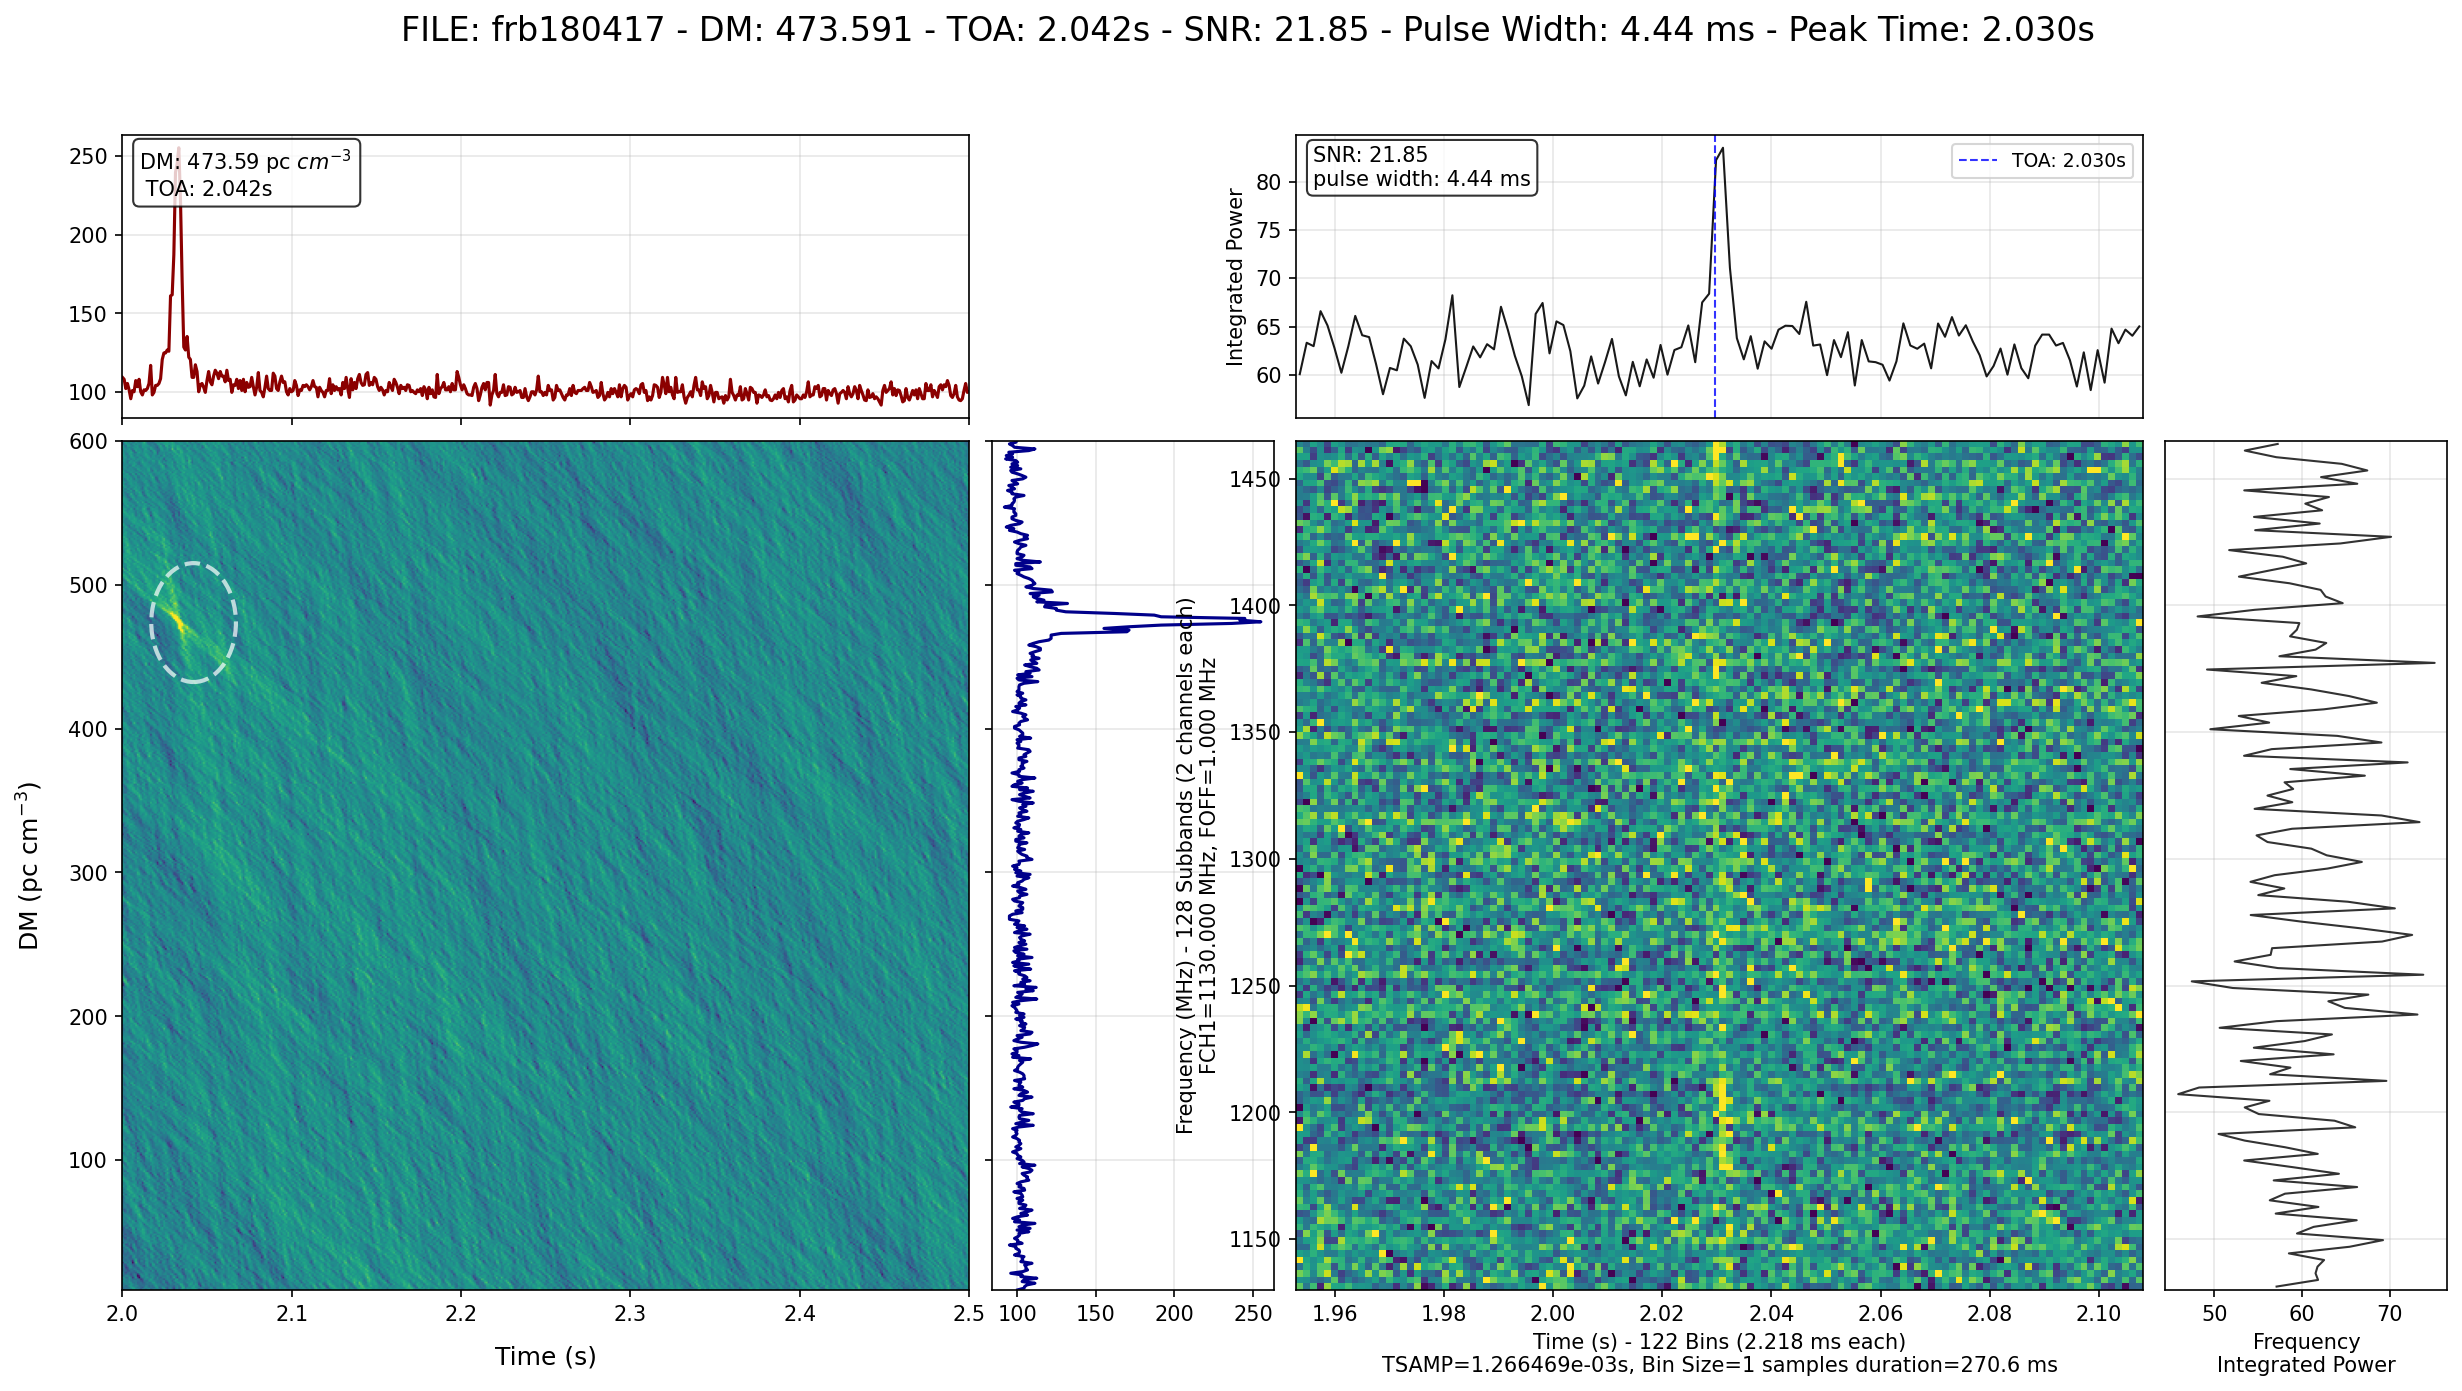
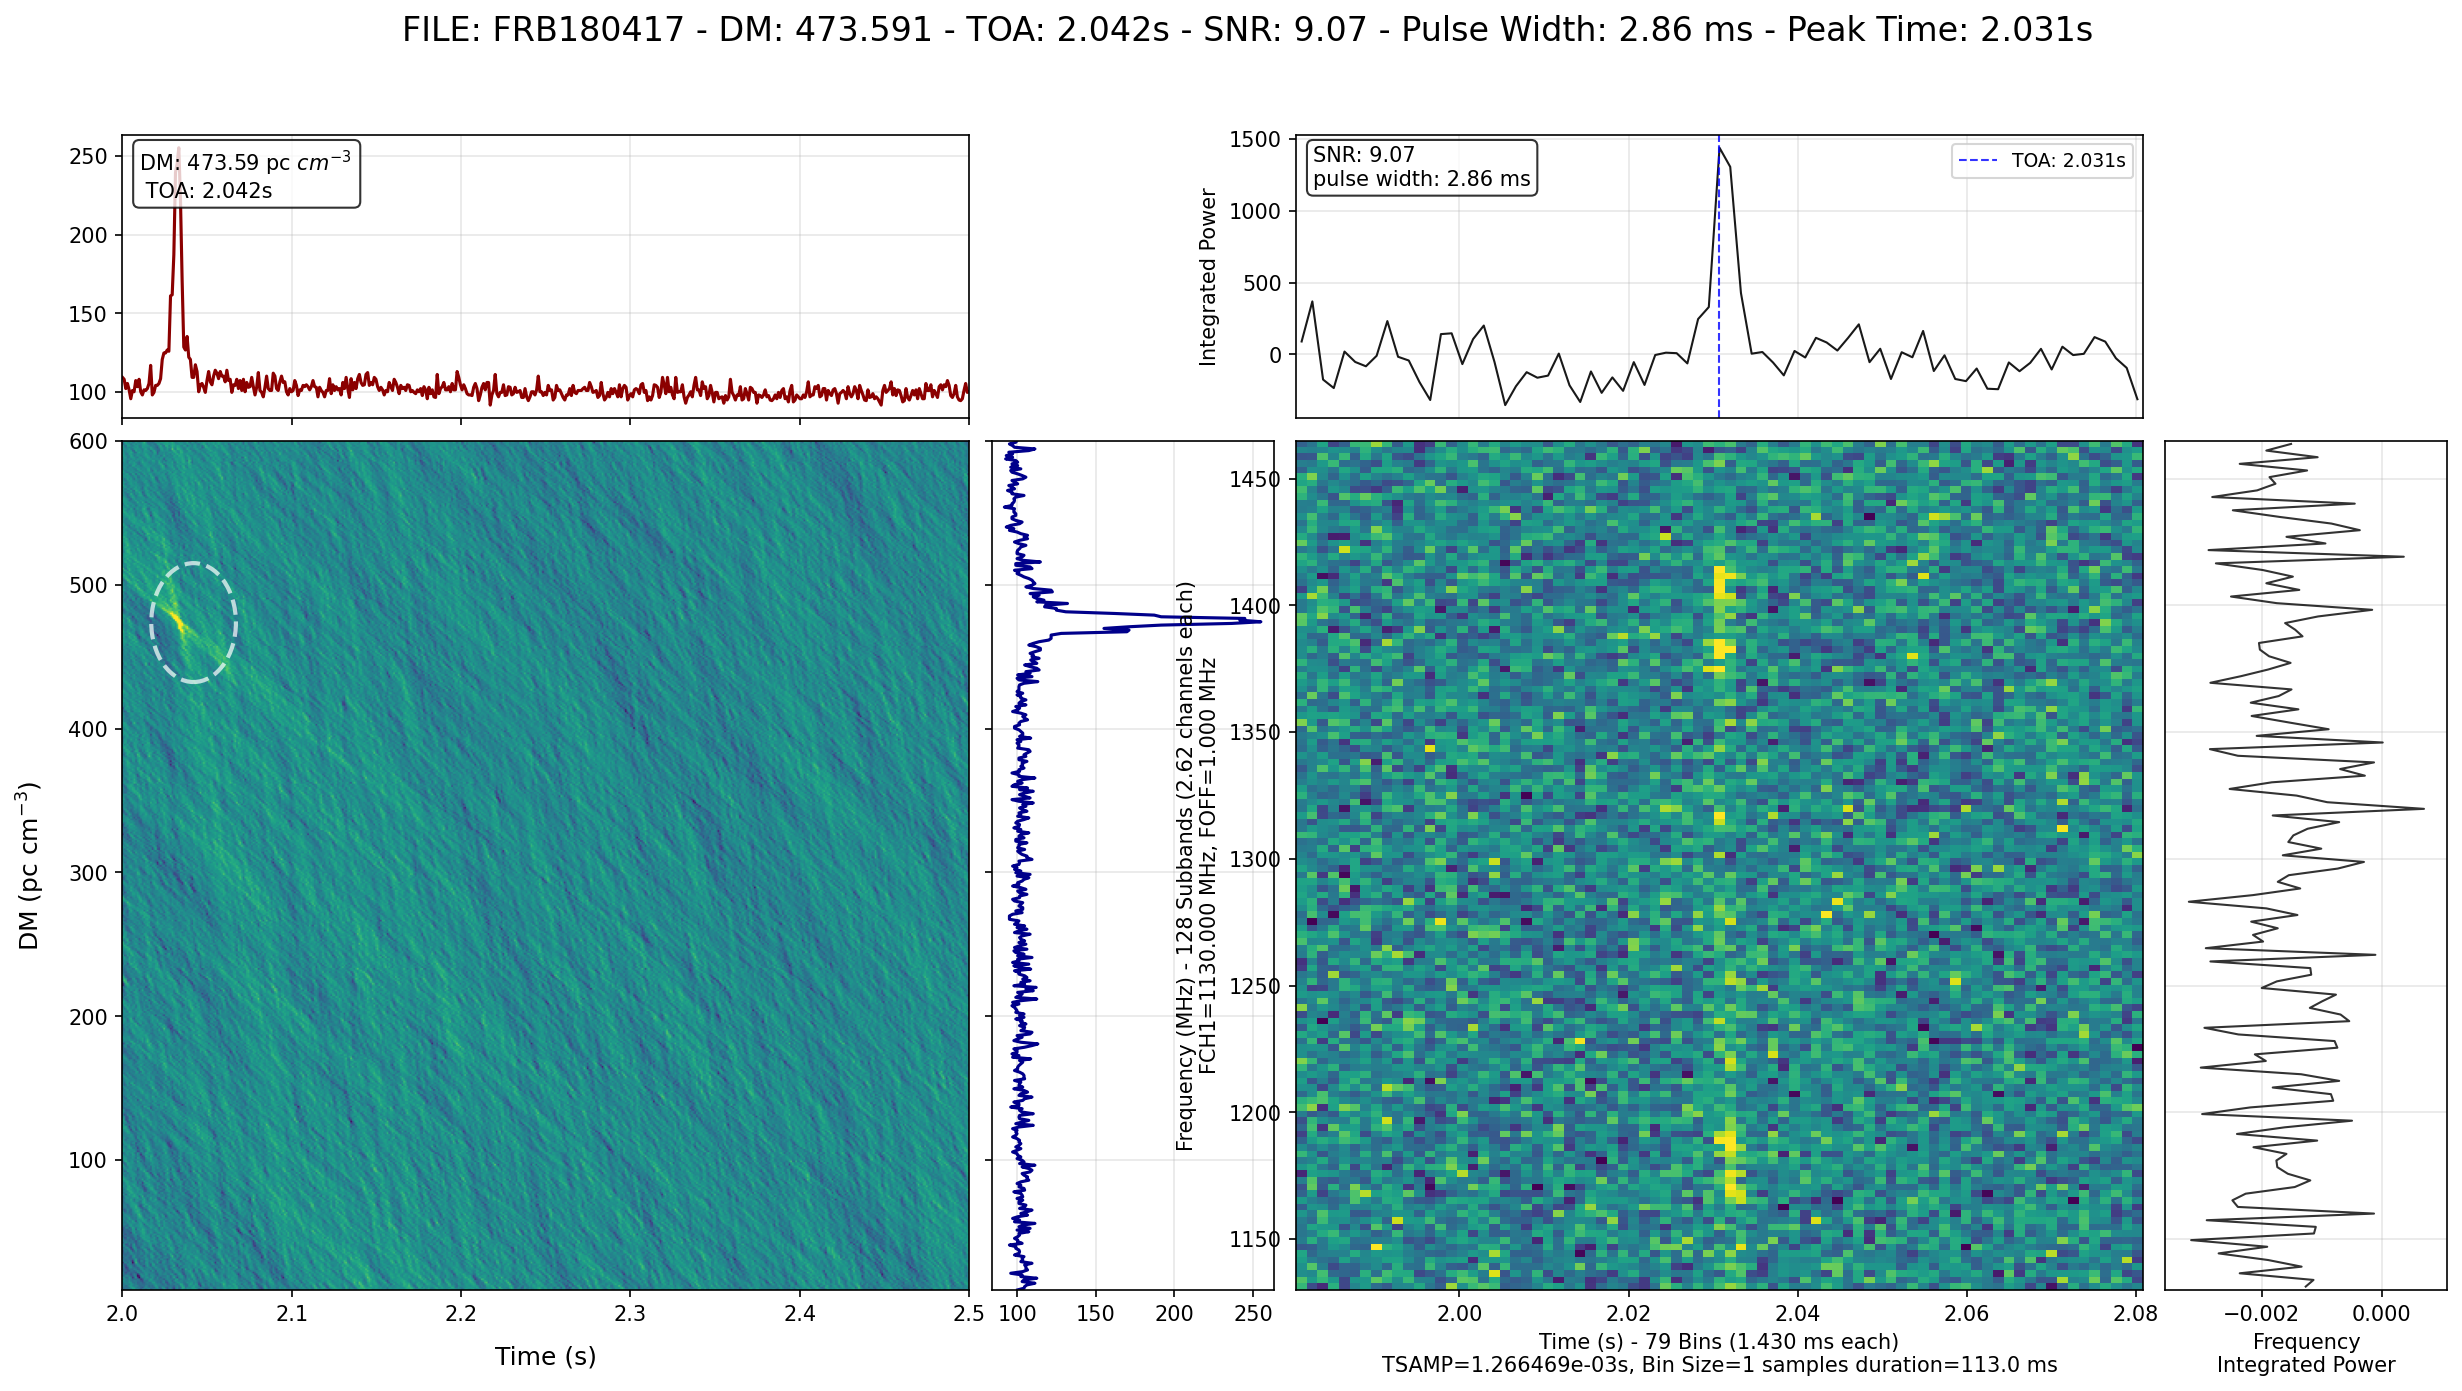
docs: update quick start config examples and logs
- Update `frb180417.png` demonstration image.
- Refine `specconfig` parameters in YAML examples (maxpercentile, dtrend, norm).
- Add `gencand` option and adjust `plotworker` count.
- Update console execution logs to match the latest software output format.
- Sync changes between English and Chinese documentation.

diff --git a/docs/quick_start_zh-CN.md b/docs/quick_start_zh-CN.md
@@ -42,11 +42,12 @@ dedgpu: 0                 # 解色散所用 GPU
 detgpu: 0                 # 检测所用 GPU
 cputhread: 8              # CPU 线程数（I/O 与预处理）
 
-plotworker: 2             # 绘图进程数
+plotworker: 1             # 绘图进程数
 
 modelname: yolov11n       # 检测模型名称（当前支持 yolov11n）
 
 # maskfile: none.txt      # RFI 掩码文件（无则禁用）
+gencand: true             # 创建候选体输出汇总文件
 
 tsample:
   - name: t1
@@ -84,14 +85,14 @@ dmtconfig:
 # 动态频谱图配置
 specconfig:
   minpercentile: 0.1
-  maxpercentile: 99
-  tband: 120                # 时间带宽
-  mode: subband             # 模式，可选 [subband, standard, detrend]
-  dtrend: false             # 可选：对子带做线性去趋势（默认 false）
-  norm: true                # 可选：子带归一化（默认 true）
-  subfreq: 128              # 可选：子带数量（默认 128）
-  subtsamp: 2               # 可选：时间聚合因子（默认 4）
-  savetype: png             # 可选：输出格式 png/jpg
+  maxpercentile: 99.9
+  tband: 120                # time bands
+  mode: subband             # one of [subband, standard, detrend]
+  dtrend: true             # optional: linear detrending per subband (default false)
+  norm: false                # optional: normalize each subband (default true)
+  subfreq: 128              # optional: subbands in subband mode (default 128)
+  subtsamp: 2               # optional: time binning factor (default 4)
+  savetype: png             # optional: image format png/jpg
 ```
 
 > 说明
@@ -107,17 +108,16 @@ astroflow frb180417.yaml
 
 你会看到类似如下日志输出：
 ```
+❯ astroflow ./frb20180417.yaml 
 Detected mode: single
-Starting single file search for: FRB180417.fil
-Using device: cuda:0 NAME: NVIDIA GeForce GTX 1660 SUPER
-...
-DM Range: 10-600, Freq Range: 1130-1465, TSample: 0.5
-...
-Typed data shape: [591, 5120]
-Typed slicing preprocessing completed: 13 slices generated
-Processed 12 samples in one batch.
-Plotting candidate: DM=473.591, TOA=2.042, Freq=1130-1465 MHz, ...
-Saving 21.85_4.44_473.591_2.042_frb180417_T_2.0s_2.5s_DM_10_600_F_1130_1465.png
+Starting single file search for: ....
+[TIMER] IO : 0.001 seconds, 1387.844 MB/s
+[INFO] Using device 0: ....
+[INFO] RFICONFIG use_iqrm=0, use_zero_dm=0, use_mask=0
+....
+[INFO]: INPUT SHAPE = [591, 5120], T: 6.484 s, SDM1: 591, ST2: 394, N: 13
+....
+Saving: 9.07_2.86_473.591_2.042_FRB180417_T_2.0s_2.5s_DM_10_600_F_1130_1465.png
 ```
 
 ---

diff --git a/docs/quick_start.md b/docs/quick_start.md
@@ -42,17 +42,18 @@ dedgpu: 0                 # GPU index for dedispersion
 detgpu: 0                 # GPU index for detection
 cputhread: 8              # CPU workers (I/O, prep)
 
-plotworker: 2             # Plotting workers
+plotworker: 1             # Plotting workers
 
 modelname: yolov11n       # Detection model (current: yolov11n)
 
 # maskfile: none.txt      # RFI mask file (or  disable)
+gencand: true             # generate candidate info csv file
 
 tsample:
   - name: t1
     t: 0.5                 # seconds per detection slice 
     # (pulse_width ~ 1-10 ms 0.5s is recommended )
-    # (pulsewith ~ 0.1-0.5 ms 0.05s is is recommended )
+    # (pulsewith ~ 0.1-0.5 ms <0.05s is is recommended )
 
 
 # human-readable label for DM limits
@@ -86,11 +87,11 @@ dmtconfig:
 # Dynamic spectrum plot scaling
 specconfig:
   minpercentile: 0.1
-  maxpercentile: 99
+  maxpercentile: 99.9
   tband: 120                # time bands
   mode: subband             # one of [subband, standard, detrend]
-  dtrend: false             # optional: linear detrending per subband (default false)
-  norm: true                # optional: normalize each subband (default true)
+  dtrend: true             # optional: linear detrending per subband (default false)
+  norm: false                # optional: normalize each subband (default true)
   subfreq: 128              # optional: subbands in subband mode (default 128)
   subtsamp: 2               # optional: time binning factor (default 4)
   savetype: png             # optional: image format png/jpg
@@ -111,17 +112,16 @@ astroflow frb180417.yaml
 
 You should see logs like:
 ```
+❯ astroflow ./frb20180417.yaml 
 Detected mode: single
-Starting single file search for: FRB180417.fil
-Using device: cuda:0 NAME: NVIDIA GeForce GTX 1660 SUPER
-...
-DM Range: 10-600, Freq Range: 1130-1465, TSample: 0.5
-...
-Typed data shape: [591, 5120]
-Typed slicing preprocessing completed: 13 slices generated
-Processed 12 samples in one batch.
-Plotting candidate: DM=473.591, TOA=2.042, Freq=1130-1465 MHz, ...
-Saving 21.85_4.44_473.591_2.042_frb180417_T_2.0s_2.5s_DM_10_600_F_1130_1465.png
+Starting single file search for: ....
+[TIMER] IO : 0.001 seconds, 1387.844 MB/s
+[INFO] Using device 0: ....
+[INFO] RFICONFIG use_iqrm=0, use_zero_dm=0, use_mask=0
+....
+[INFO]: INPUT SHAPE = [591, 5120], T: 6.484 s, SDM1: 591, ST2: 394, N: 13
+....
+Saving: 9.07_2.86_473.591_2.042_FRB180417_T_2.0s_2.5s_DM_10_600_F_1130_1465.png
 ```
 
 ---
